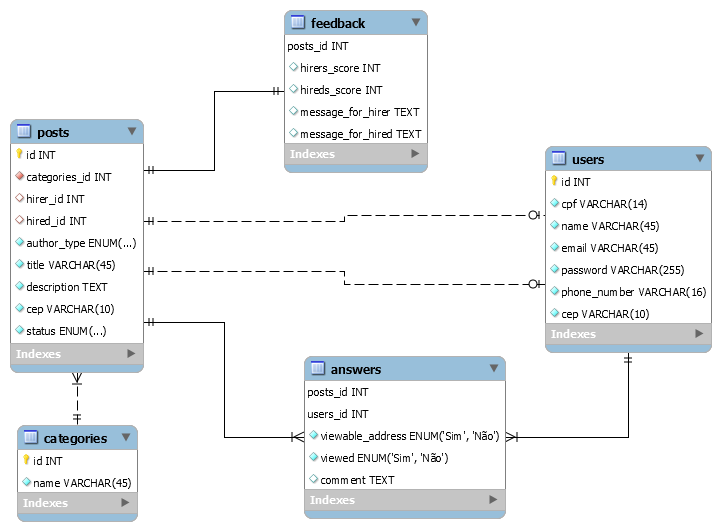
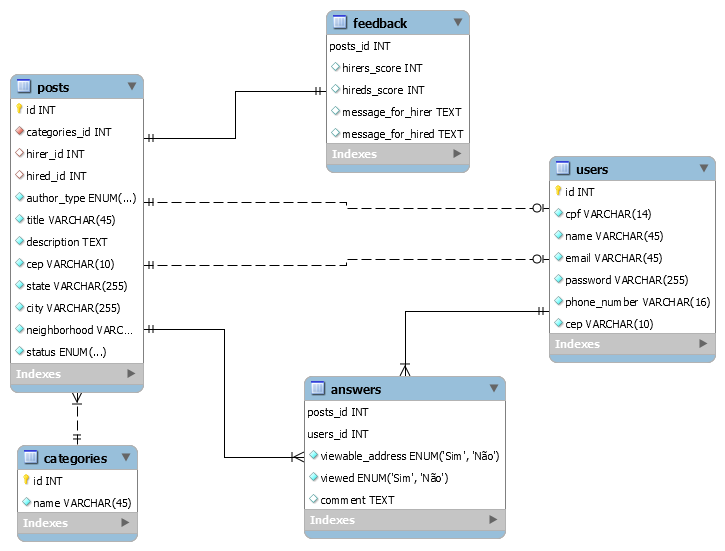
change DB model, sidebar and publish view

diff --git a/Trampo/resources/views/post/publish.blade.php b/Trampo/resources/views/post/publish.blade.php
@@ -27,6 +27,22 @@
                                 @endforeach
                             </select>
                         </div>
+                        <div>
+                            <label for="cep">CEP</label>
+                            <div class="form-check">
+                                <input class="form-check-input" type="radio" name="cep" id="meu_cep" value="{{auth()->user()->cep}}" checked>
+                                <label class="form-check-label" for="meu_cep">
+                                Meu CEP ({{auth()->user()->cep}})
+                                </label>
+                            </div>
+                            <div class="form-check">
+                                <input class="form-check-input" type="radio" name="cep" id="radio_outro_cep" value="">
+                                <label class="form-check-label" for="radio_outro_cep">
+                                Outro CEP
+                                </label>
+                                <input class="form-control" type="text" name="input_outro_cep" id="input_outro_cep" />
+                            </div>
+                        </div>
                         <div class="form-group">
                             <label for="titulo">Título</label>
                             <input type="text" class="form-control" name="titulo" id="titulo" placeholder="Insira o título aqui" required>
@@ -42,3 +58,13 @@
         </div>
     </div>
 @stop
+
+@push('js')
+<script type="text/javascript" src="https://cdnjs.cloudflare.com/ajax/libs/jquery.mask/1.14.16/jquery.mask.min.js"></script>
+<script>
+    $(document).ready(function () { 
+        var $campoCep = $("#input_outro_cep");
+        $campoCep.mask("00.000-000");
+    });
+</script>
+@endpush

diff --git a/Trampo/database/migrations/2019_11_30_165037_create_posts_table.php b/Trampo/database/migrations/2019_11_30_165037_create_posts_table.php
@@ -21,7 +21,10 @@ class CreatePostsTable extends Migration
 		    $table->enum('author_type', ['Contratante',  'Prestador']);
 		    $table->string('title', 45);
 		    $table->text('description');
-		    $table->string('cep', 10);
+            $table->string('cep', 10);
+            $table->string('state');
+            $table->string('city');
+            $table->string('neighborhood');
 		    $table->enum('status', ['Concluído',  'Em Andamento',  'Cancelado'])->default('Em Andamento');
 		
 		    $table->index('categories_id','fk_posts_categories_idx');

diff --git a/Trampo/config/adminlte.php b/Trampo/config/adminlte.php
@@ -193,12 +193,12 @@ return [
         ],
         ['header' => 'Publicações'],
         [
-            'text' => 'Serviços Disponíveis',
+            'text' => 'Contratantes Disponíveis',
             'url'  => 'services',
             'icon' => 'fas fa-fw fa-tools',
         ],
         [
-            'text' => 'Autônomos Disponíveis',
+            'text' => 'Prestadores Disponíveis',
             'url'  => 'freelancers',
             'icon' => 'fas fa-fw fa-people-carry',
         ]
